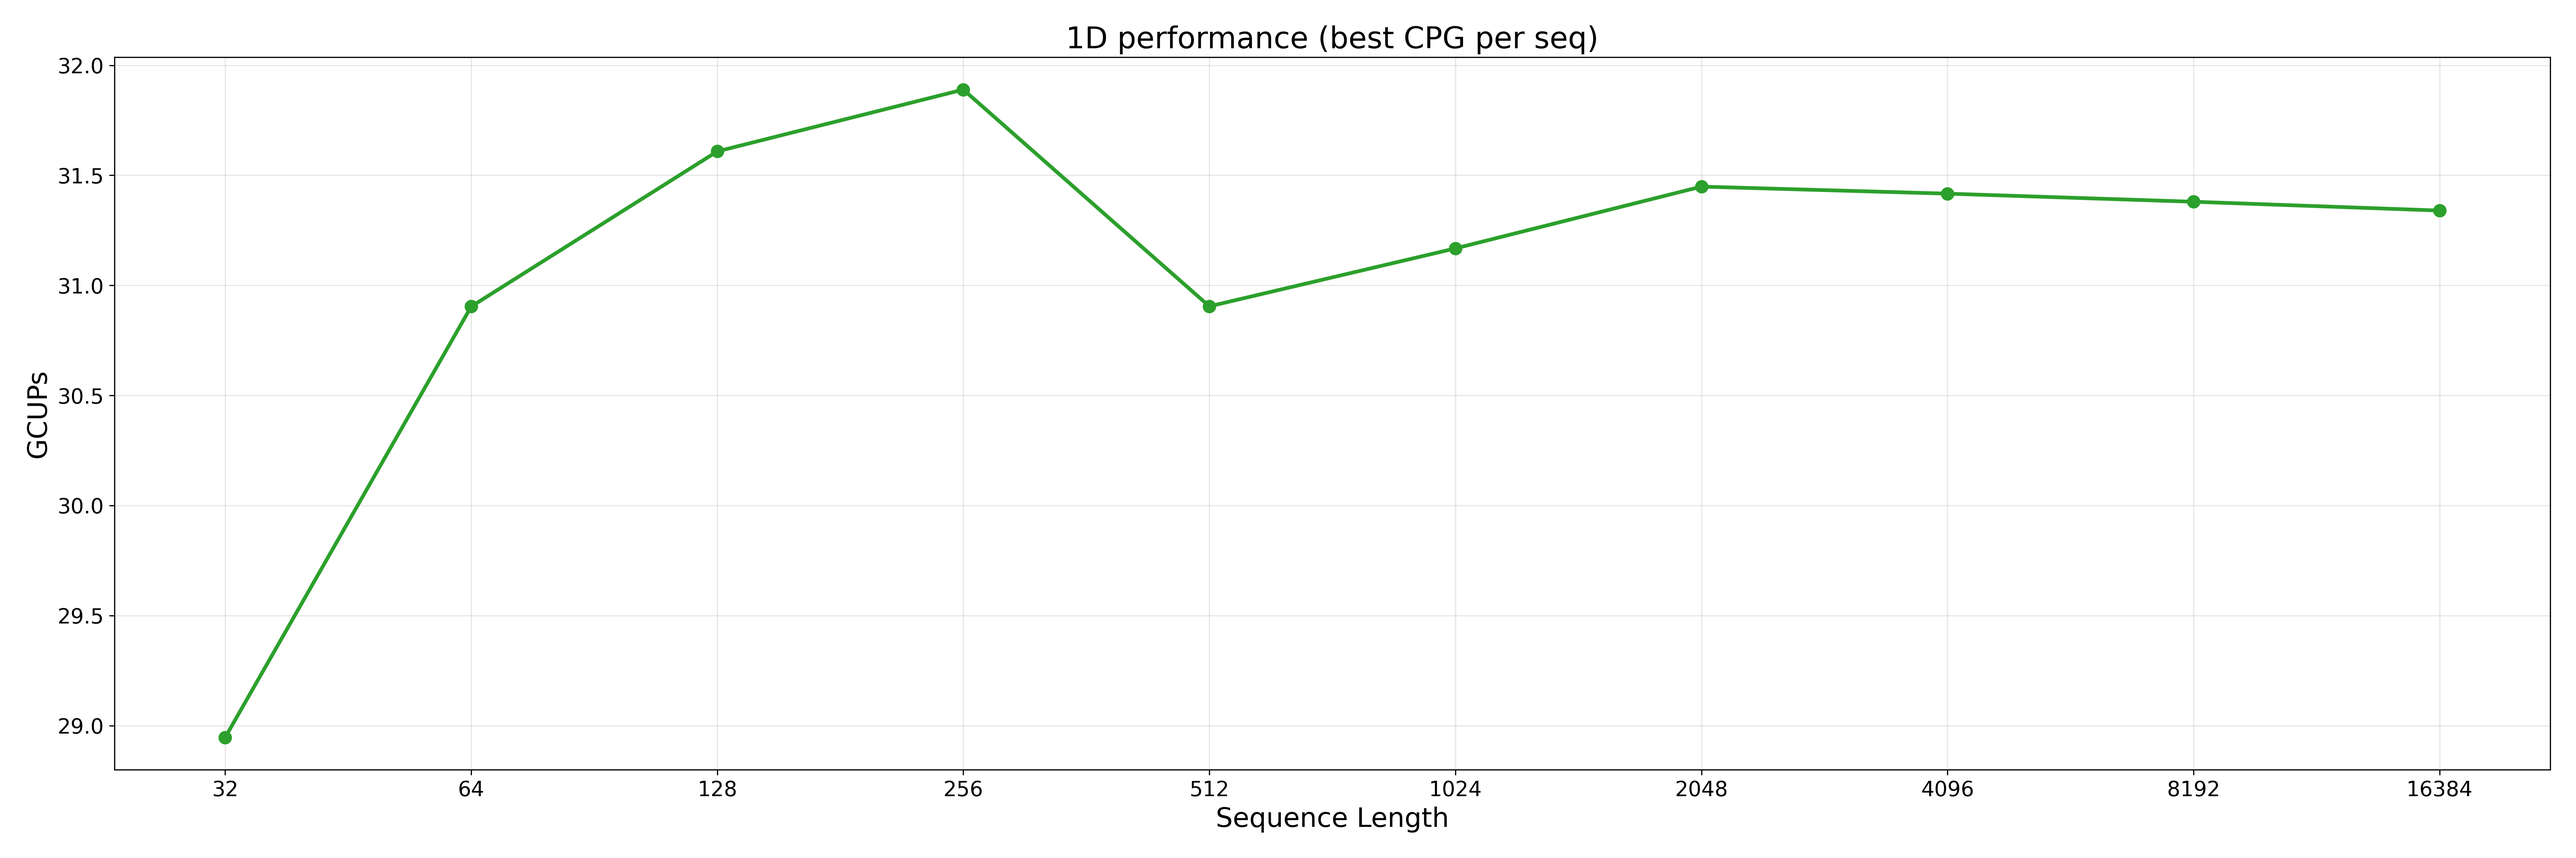
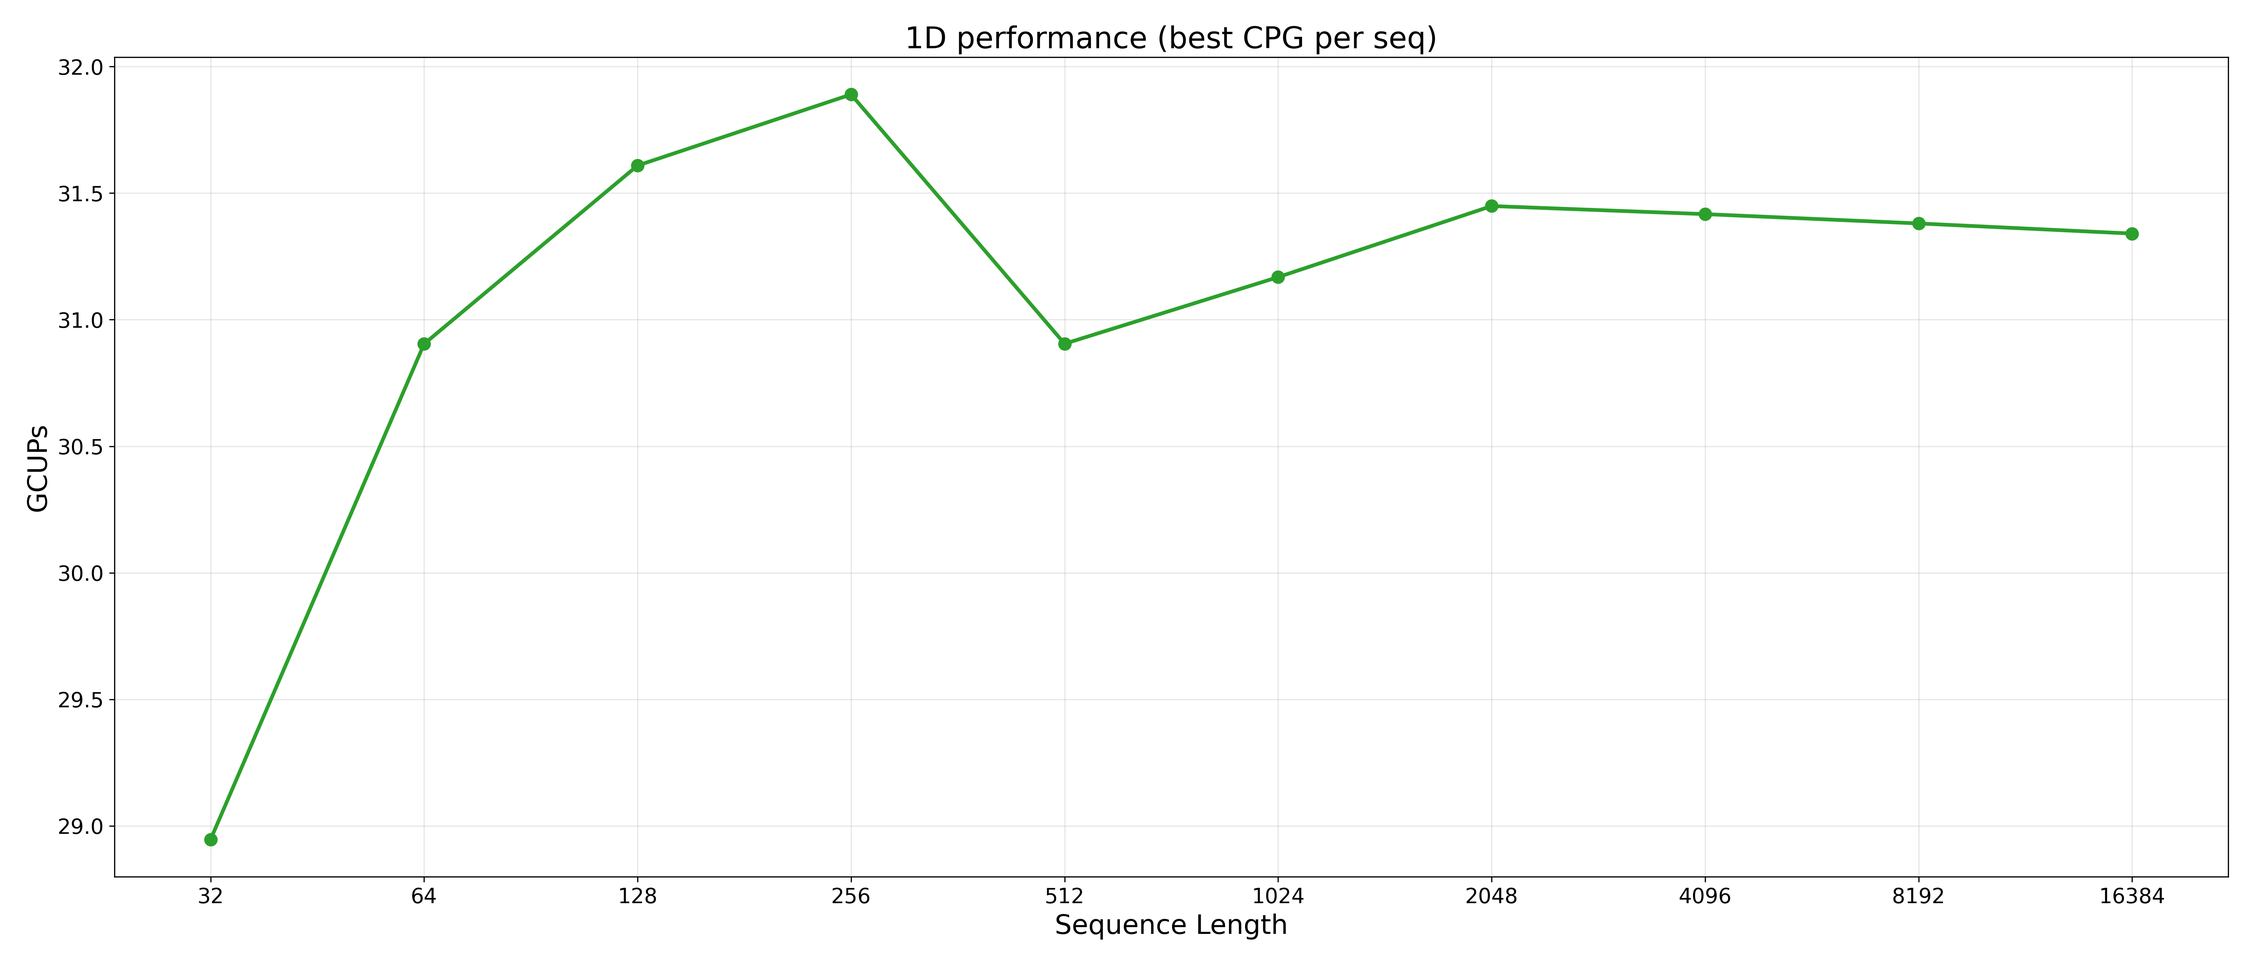
charts: wide variant resized to 21x9

diff --git a/plot.py b/plot.py
@@ -6,7 +6,7 @@ One module-level function per logical chart group; ``main()`` runs them all.
 
 Conventions (project-wide):
 - Default figure size: 10×8 inches.
-- Wider variant (for plots with more legend / many series): 24×8 inches.
+- Wider variant (for plots with more legend / many series): 21×9 inches.
 - DPI 300, PNG only.
 - Sequence-length axis: log base 2, ticks labeled with raw integers
   (32, 64, 128 — never 2^5, 2^6, ...).
@@ -30,7 +30,7 @@ OUT.mkdir(exist_ok=True)
 
 DPI = 300
 SIZE_DEFAULT = (10, 8)   # 1.25:1 aspect
-SIZE_WIDE    = (24, 8)   # 3:1 aspect, for many-series plots
+SIZE_WIDE    = (21, 9)   # ~2.33:1 aspect, for many-series plots
 
 # Regular vs high-bandwidth comparison colors (project-wide convention).
 COLOR_REGULAR = "#1f77b4"  # blue

diff --git a/charts/smithwaterman.md b/charts/smithwaterman.md
@@ -1,7 +1,7 @@
 # Smith-Waterman charts
 
 All charts at 300 dpi.  Default size 10×8 inches; 1D plots also export
-a 24×8 wide variant for the multi-CPG view.  GCUPs values are scaled
+a 21×9 wide variant for the multi-CPG view.  GCUPs values are scaled
 ×8 to reflect all 8 pods (chip-wide).  Time/sequence is in microseconds,
 log-scale.  cpg=2 omitted (most rows timed out at launch scale; only
 one passed, not enough to draw a curve).
